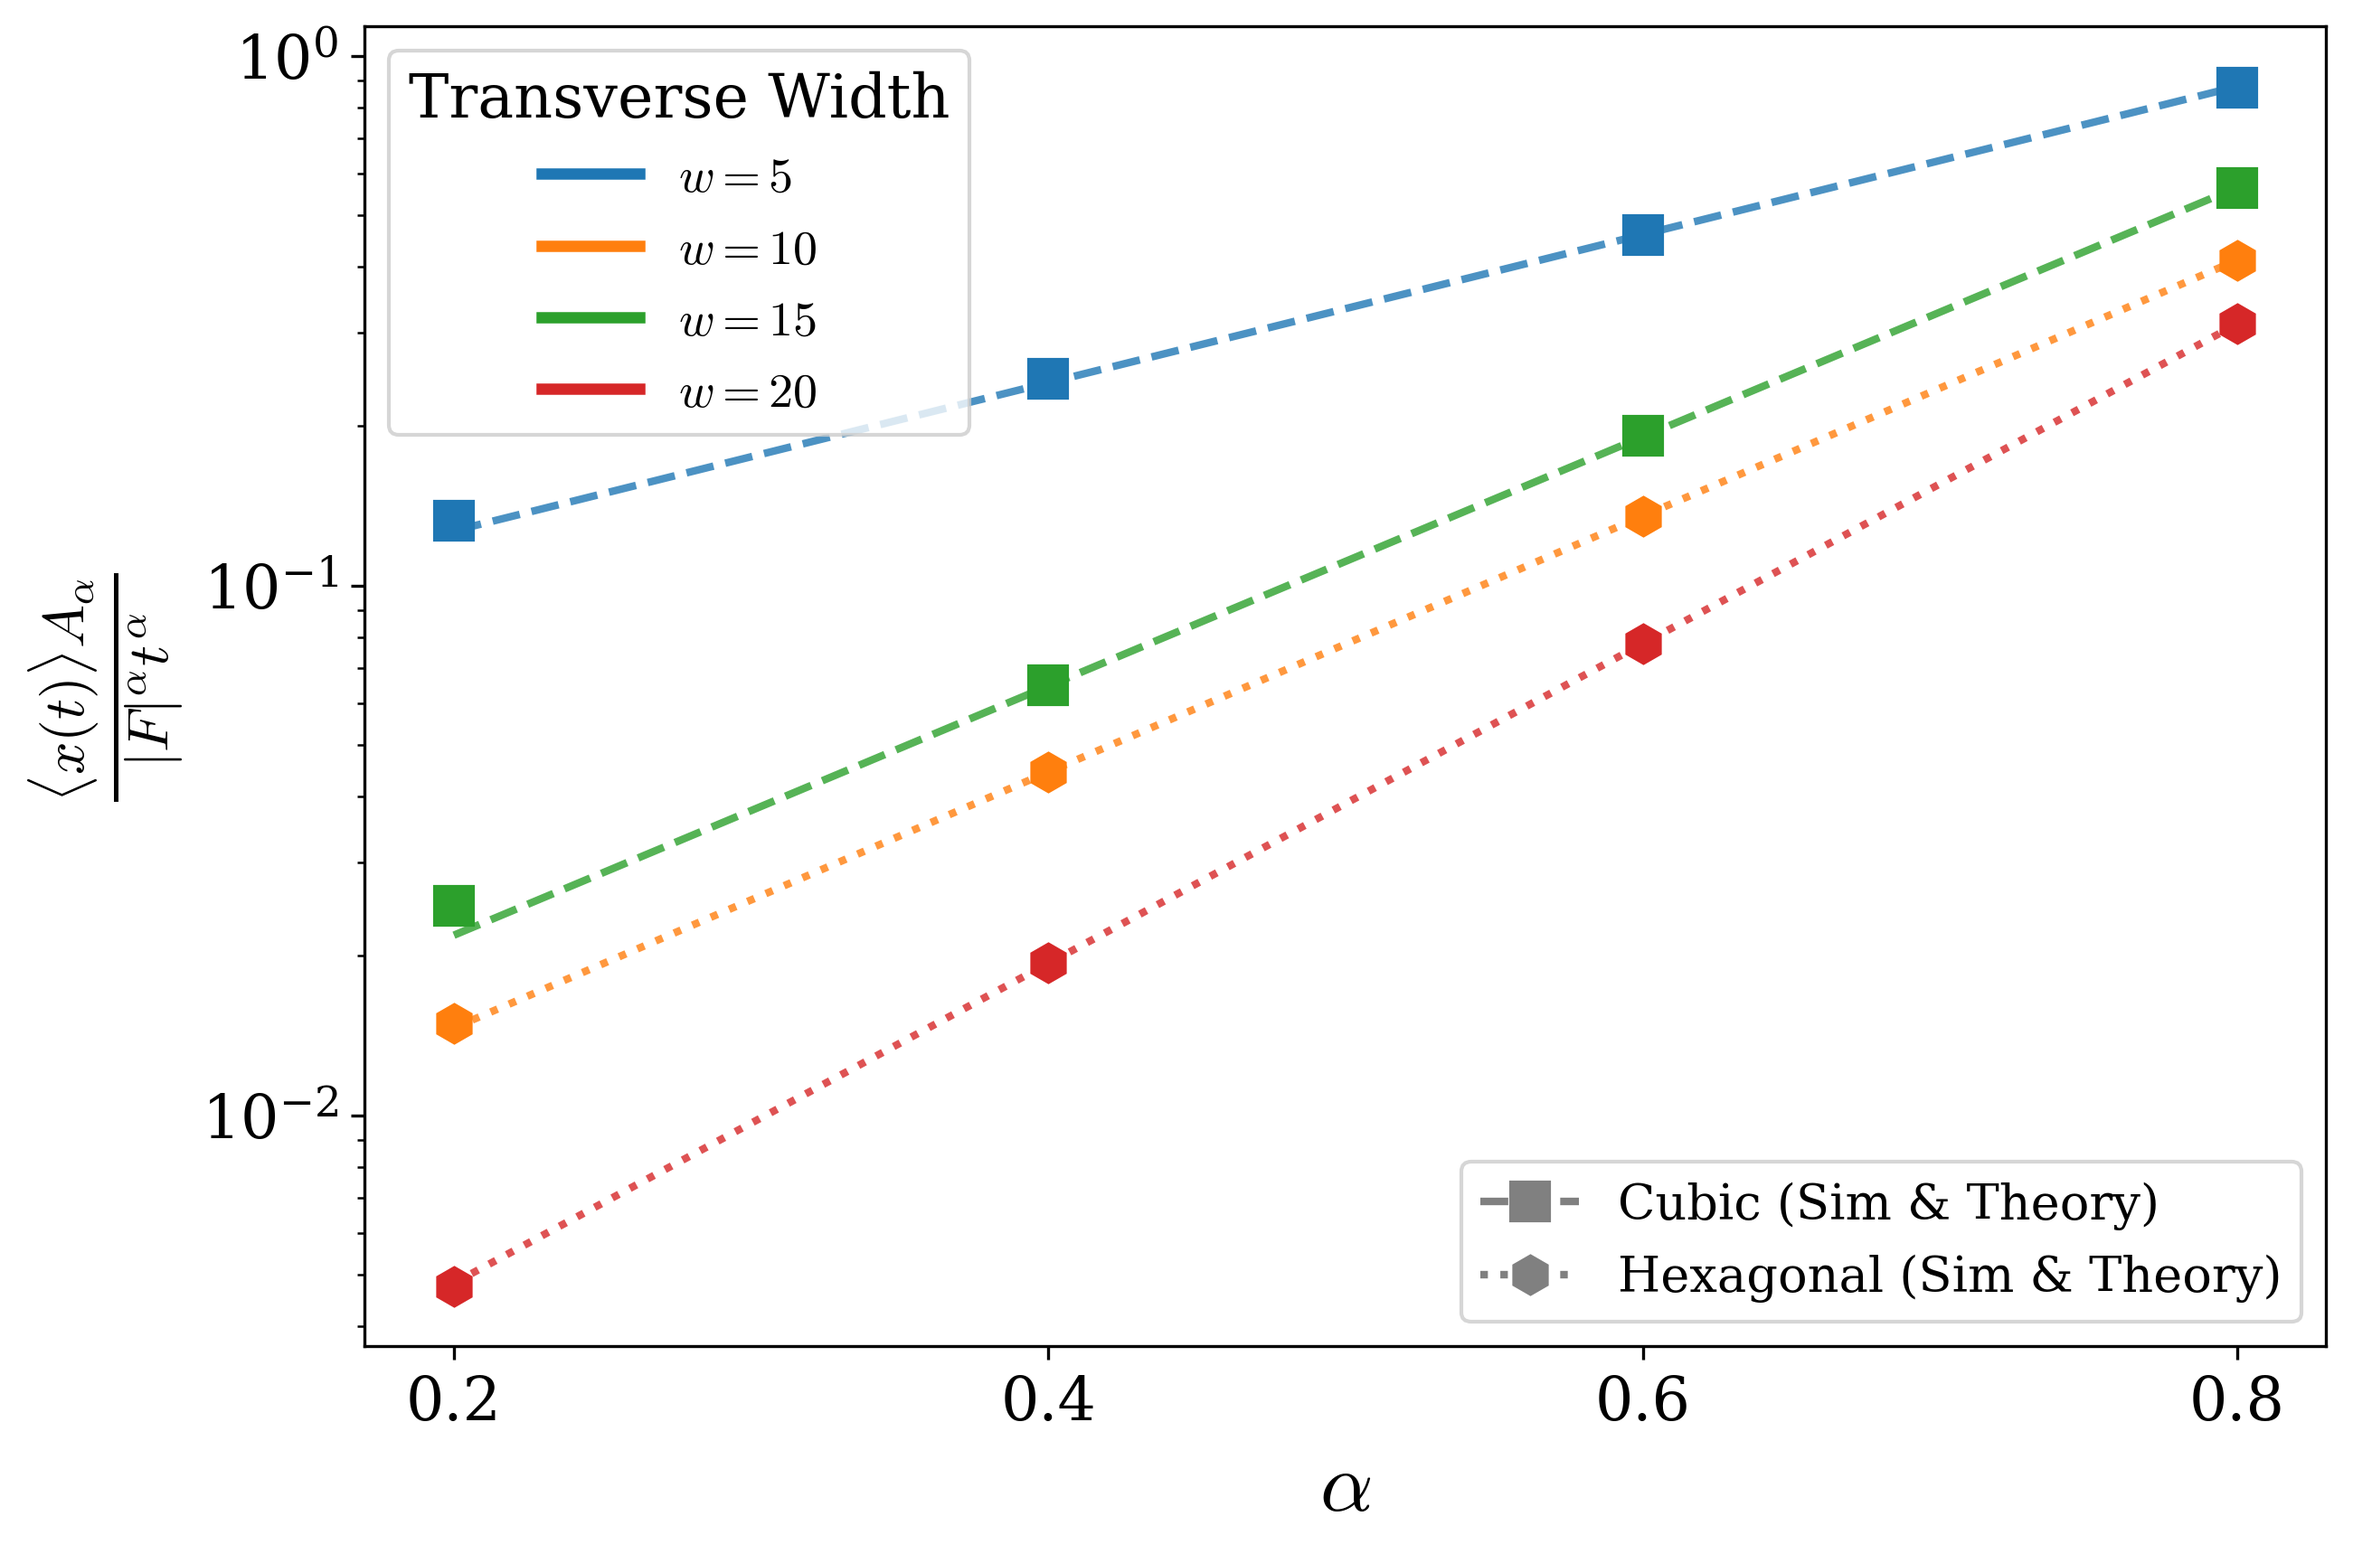
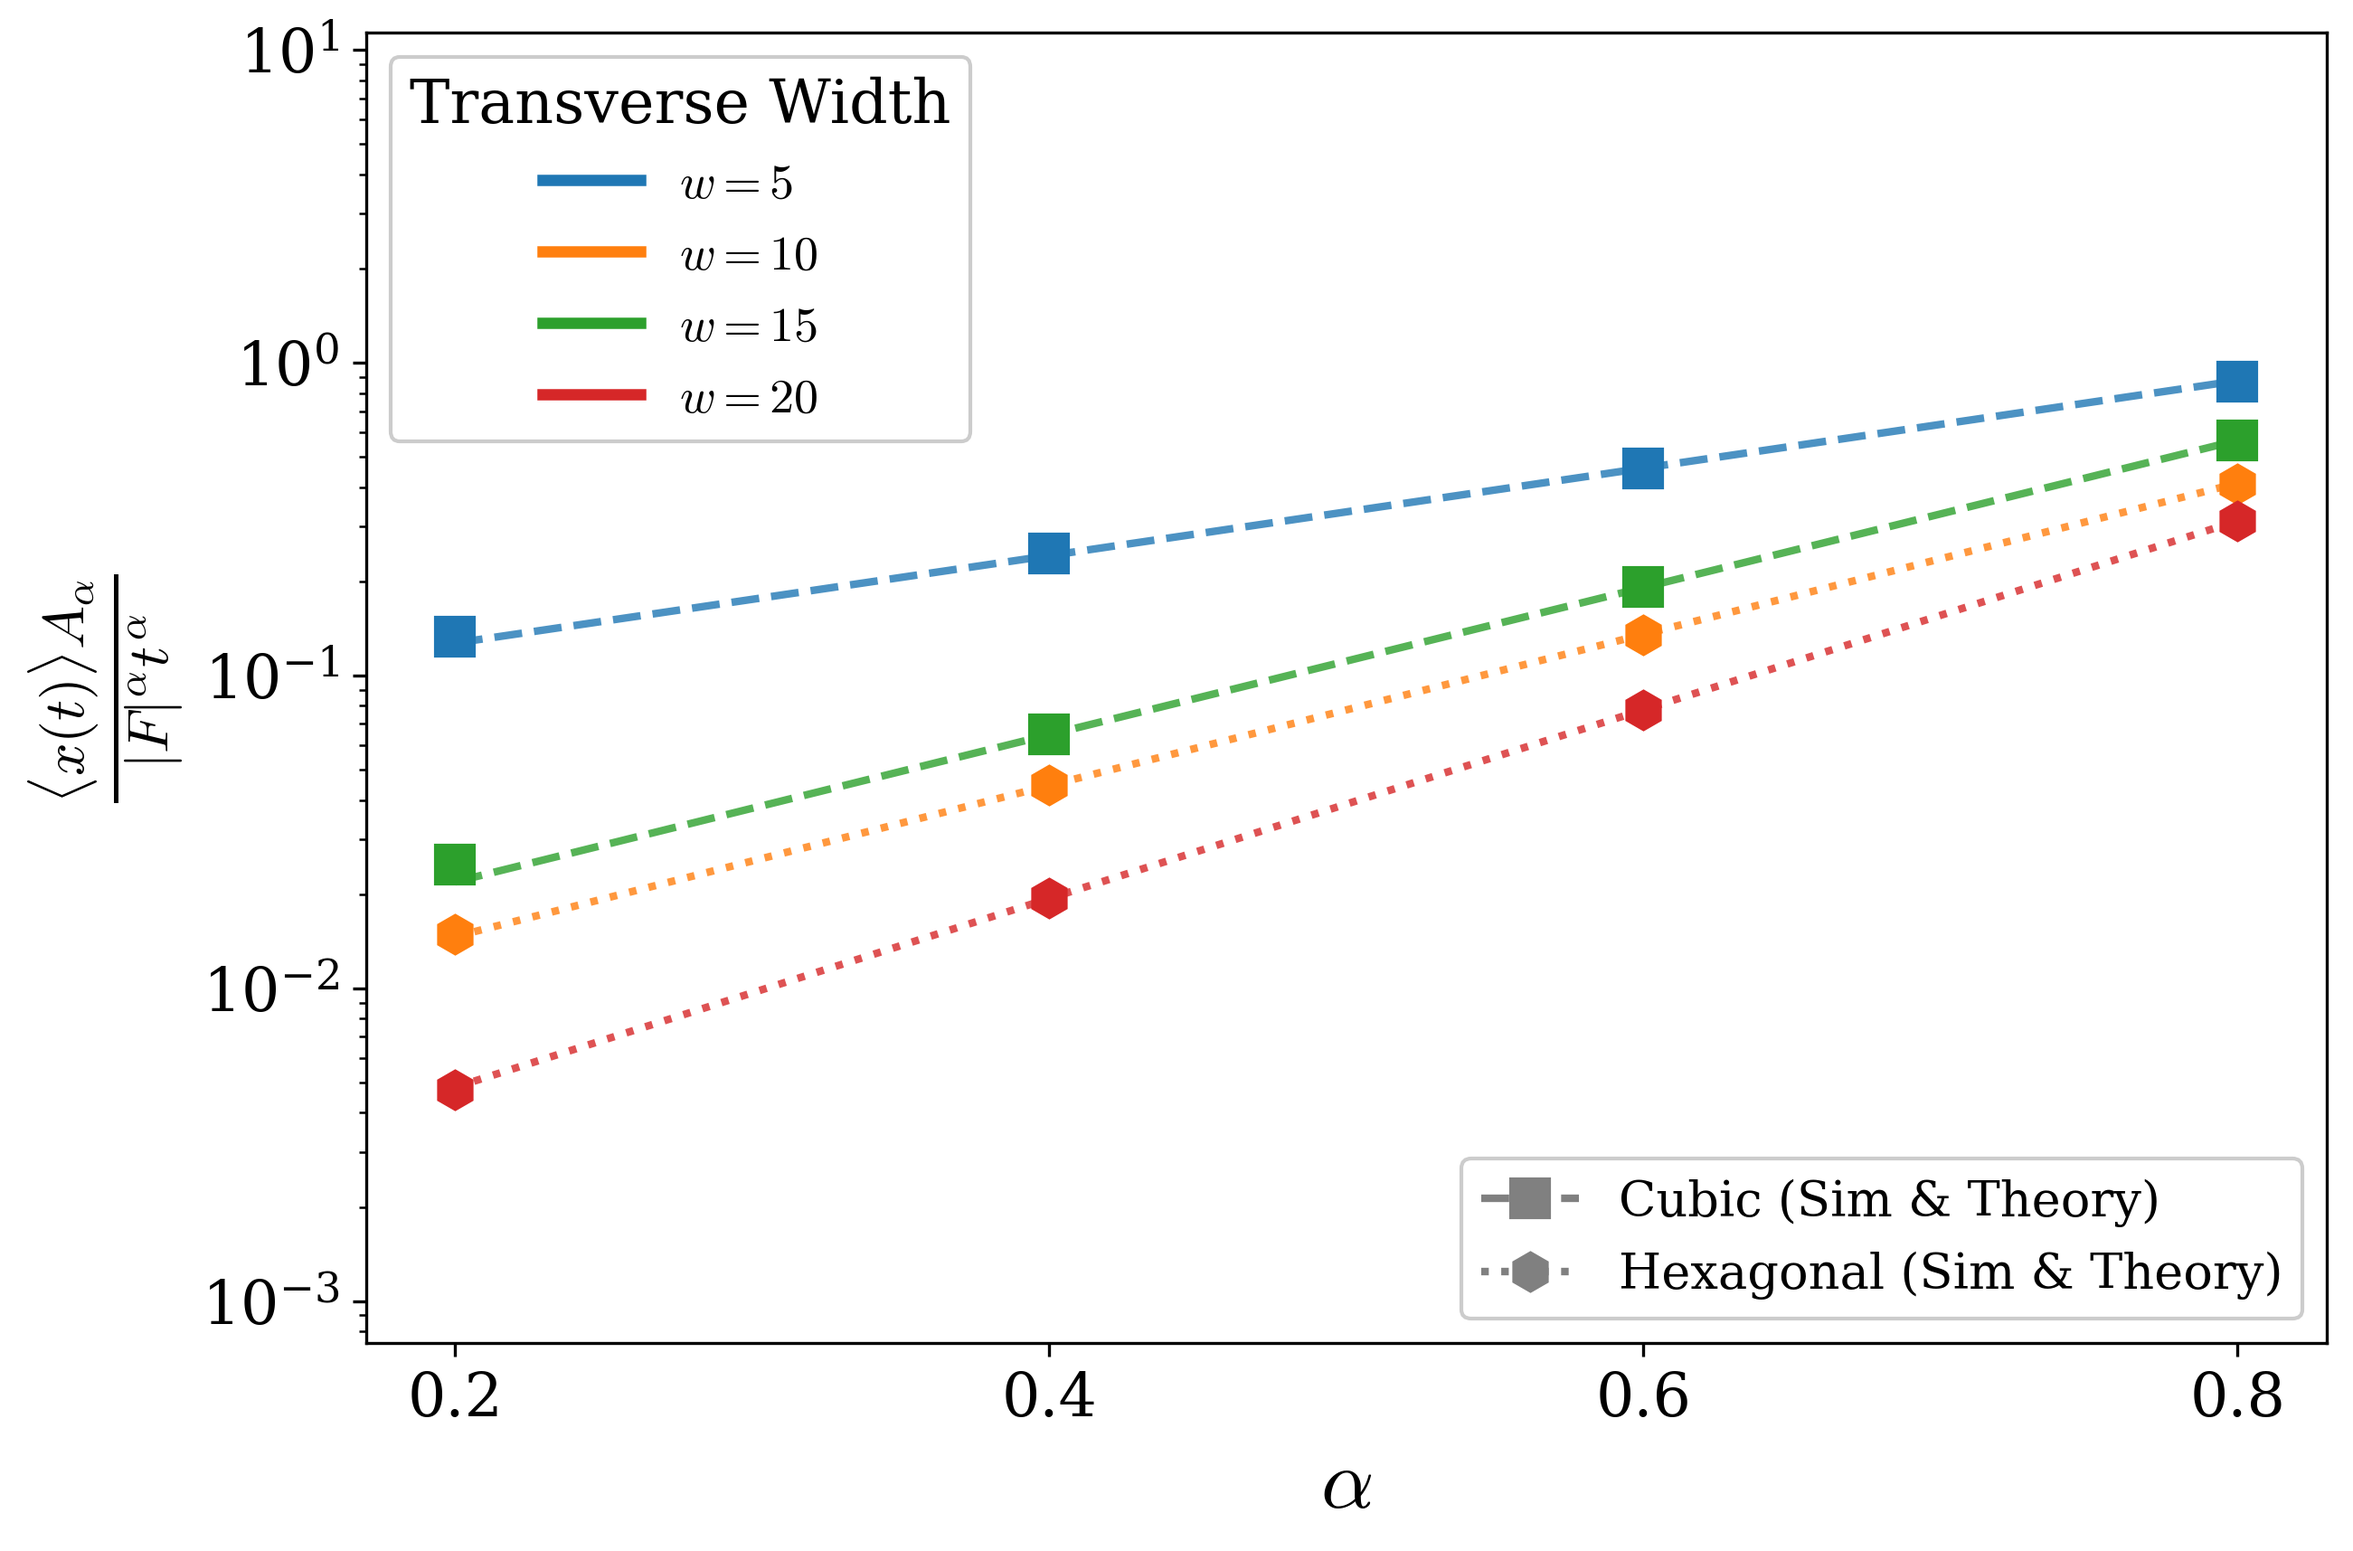
change legend place

diff --git a/GRAPH/FINALA/st_momVSAlpha/plot_finale_alpha_combined.py b/GRAPH/FINALA/st_momVSAlpha/plot_finale_alpha_combined.py
@@ -110,11 +110,16 @@ def main():
     ax.set_ylabel(r'$\frac{\langle x(t) \rangle A_\alpha}{|F|^\alpha t^\alpha}$')
     ax.set_xticks([0.2, 0.4, 0.6, 0.8])
     
+    # ---> THE FIX: Add dynamic headroom for BOTH legends <---
+    ymin, ymax = ax.get_ylim()
+    # Multiplying ymax by 10 pushes the ceiling up. Dividing ymin by 5 pushes the floor down.
+    ax.set_ylim(ymin / 5.0, ymax * 10.0) 
+
     # --- Custom Dual Legend Structure ---
     # Legend 1: Colors mapped to Transverse Width (w)
     color_handles = [Line2D([0], [0], color=colors[i % len(colors)], linewidth=3, 
                             label=rf'$w = {int(w)}$') for i, w in enumerate(plotted_widths)]
-    leg1 = ax.legend(handles=color_handles, title="Transverse Width", loc='upper left', frameon=True)
+    leg1 = ax.legend(handles=color_handles, title="Transverse Width", loc='upper left', frameon=True, framealpha=1.0)
     ax.add_artist(leg1)
     
     # Legend 2: Markers/Lines mapped to Geometry Type
@@ -124,7 +129,7 @@ def main():
         Line2D([0], [0], color='gray', marker='h', linestyle=':', markersize=10, 
                label='Hexagonal (Sim & Theory)')
     ]
-    ax.legend(handles=geom_handles, loc='lower right', frameon=True)
+    ax.legend(handles=geom_handles, loc='lower right', frameon=True, framealpha=1.0)
 
     print("-------------------------------------------\n")
 
